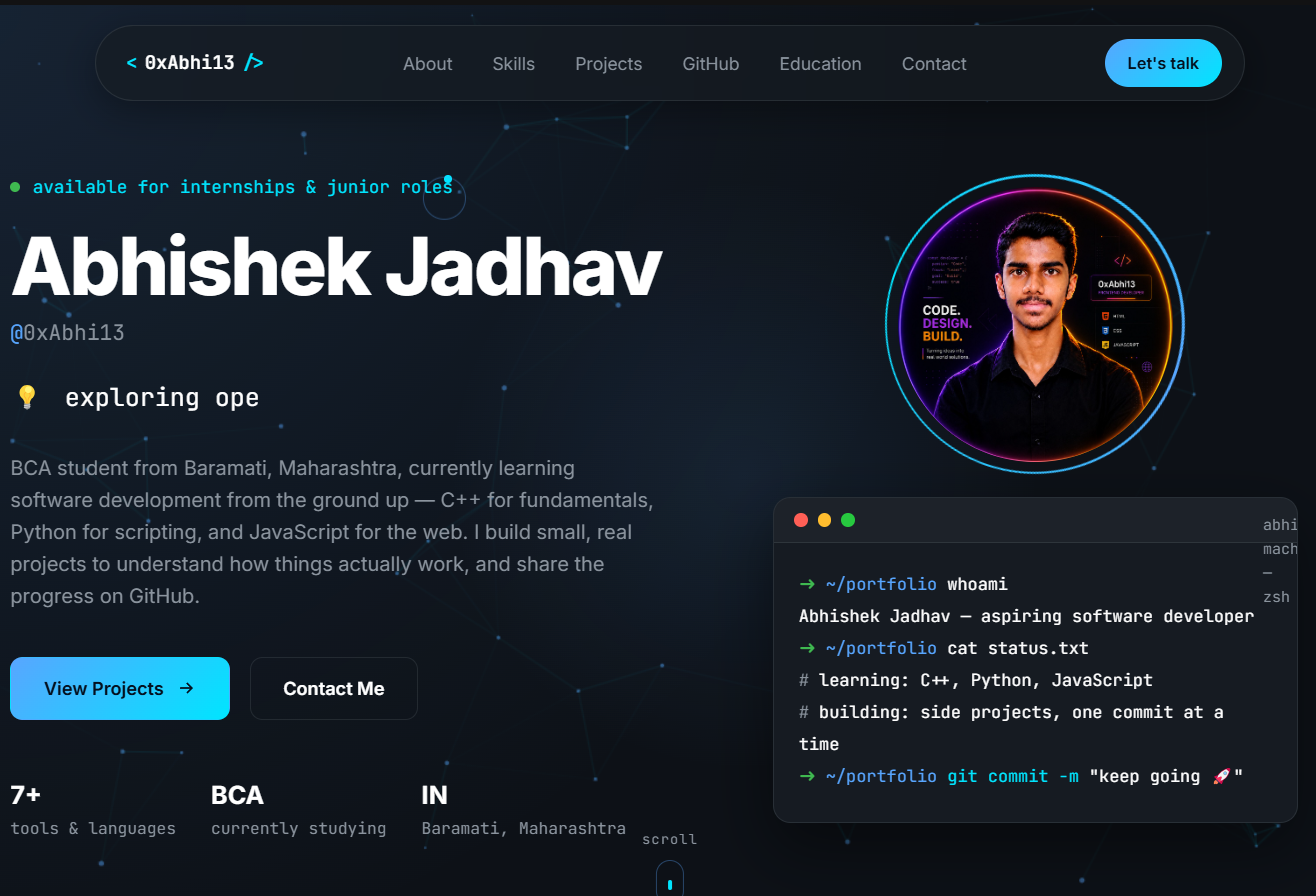
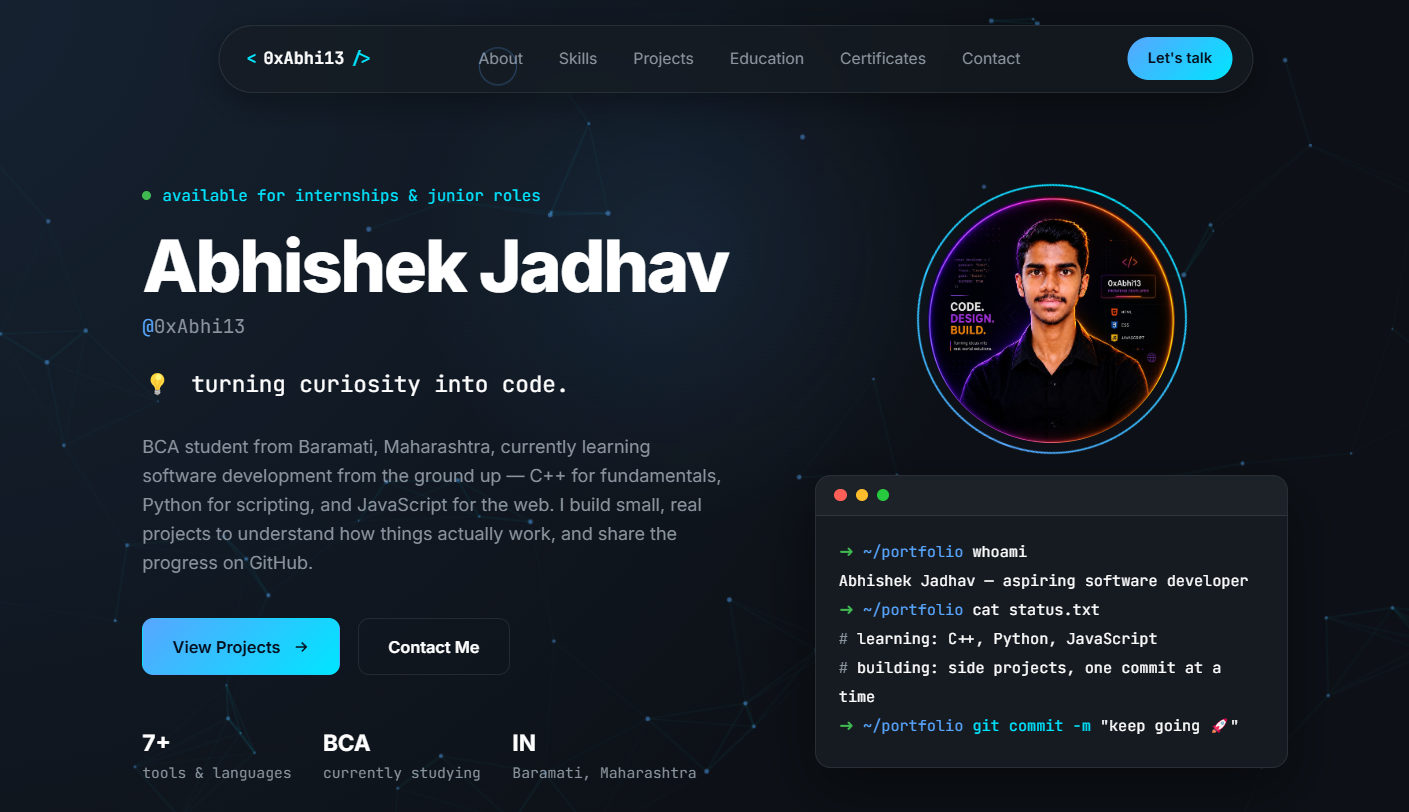
Update portfolio and featured projects

diff --git a/index.html b/index.html
@@ -339,8 +339,88 @@
 
           
 
+          <!-- Project 2 -->
+          <article class="project-card" data-reveal="scale" style="--delay:60ms">
+            <div class="project-media">
+              <img src="assets/projects/0xemotion.png" alt="0xEmotion homepage showing AI-powered emotion recognition landing page" loading="lazy" width="600" height="340" />
+            </div>
+            <div class="project-body">
+              <h3>0xEmotion</h3>
+              <p>AI-powered facial expression recognition web app that runs entirely offline — Flask + OpenCV detect faces from a webcam or upload and classify the visible expression, with a transparent fallback mode when no trained model is present.</p>
+              <div class="project-tech">
+                <span>Python</span><span>Flask</span><span>OpenCV</span><span>NumPy</span>
+              </div>
+              <div class="project-links">
+                <a class="btn btn-outline btn-sm" href="https://github.com/0xAbhi13/0xEmotion" target="_blank" rel="noopener noreferrer">
+                  <svg viewBox="0 0 24 24" fill="currentColor"><path d="M12 2a10 10 0 00-3.16 19.5c.5.1.68-.22.68-.48v-1.7c-2.78.6-3.37-1.34-3.37-1.34-.46-1.15-1.11-1.46-1.11-1.46-.9-.62.07-.6.07-.6 1 .07 1.53 1.03 1.53 1.03.9 1.52 2.34 1.08 2.91.83.09-.65.35-1.08.63-1.33-2.22-.25-4.56-1.11-4.56-4.94 0-1.09.39-1.98 1.03-2.68-.1-.25-.45-1.27.1-2.64 0 0 .84-.27 2.75 1.02a9.6 9.6 0 015 0c1.9-1.3 2.74-1.02 2.74-1.02.56 1.37.2 2.39.1 2.64.64.7 1.03 1.59 1.03 2.68 0 3.84-2.35 4.68-4.58 4.93.36.31.68.92.68 1.85v2.74c0 .27.18.58.69.48A10 10 0 0012 2z"/></svg>
+                  GitHub
+                </a>
+              </div>
+            </div>
+          </article>
+
+          <!-- Project 3 -->
+          <article class="project-card" data-reveal="scale" style="--delay:120ms">
+            <div class="project-media">
+              <img src="assets/projects/0xmagicsearch.png" alt="0xMagicSearch scanner interface with camera view and result panel" loading="lazy" width="600" height="340" />
+            </div>
+            <div class="project-body">
+              <h3>0xMagicSearch</h3>
+              <p>Local AI object detection web app that turns your webcam into a scanner — a lightweight YOLOv4-tiny model run through OpenCV identifies objects in real time and enriches each result with a local knowledge base, no cloud API involved.</p>
+              <div class="project-tech">
+                <span>Python</span><span>Flask</span><span>OpenCV</span><span>YOLOv4-tiny</span>
+              </div>
+              <div class="project-links">
+                <a class="btn btn-outline btn-sm" href="https://github.com/0xAbhi13/0xMagicSearch" target="_blank" rel="noopener noreferrer">
+                  <svg viewBox="0 0 24 24" fill="currentColor"><path d="M12 2a10 10 0 00-3.16 19.5c.5.1.68-.22.68-.48v-1.7c-2.78.6-3.37-1.34-3.37-1.34-.46-1.15-1.11-1.46-1.11-1.46-.9-.62.07-.6.07-.6 1 .07 1.53 1.03 1.53 1.03.9 1.52 2.34 1.08 2.91.83.09-.65.35-1.08.63-1.33-2.22-.25-4.56-1.11-4.56-4.94 0-1.09.39-1.98 1.03-2.68-.1-.25-.45-1.27.1-2.64 0 0 .84-.27 2.75 1.02a9.6 9.6 0 015 0c1.9-1.3 2.74-1.02 2.74-1.02.56 1.37.2 2.39.1 2.64.64.7 1.03 1.59 1.03 2.68 0 3.84-2.35 4.68-4.58 4.93.36.31.68.92.68 1.85v2.74c0 .27.18.58.69.48A10 10 0 0012 2z"/></svg>
+                  GitHub
+                </a>
+              </div>
+            </div>
+          </article>
+
+          <!-- Project 4 -->
+          <article class="project-card" data-reveal="scale" style="--delay:180ms">
+            <div class="project-media">
+              <img src="assets/projects/0xaircanvas.png" alt="0xAirCanvas drawing interface with a cat drawn on the canvas and brush controls" loading="lazy" width="600" height="340" />
+            </div>
+            <div class="project-body">
+              <h3>0xAirCanvas</h3>
+              <p>Draw in thin air — OpenCV and MediaPipe track your hand through the webcam, turning your fingertip into a smooth digital pen with gesture-based controls for drawing, erasing, and clearing the canvas, no stylus or touchscreen needed.</p>
+              <div class="project-tech">
+                <span>Python</span><span>Flask</span><span>OpenCV</span><span>MediaPipe</span>
+              </div>
+              <div class="project-links">
+                <a class="btn btn-outline btn-sm" href="https://github.com/0xAbhi13/0xAirCanvas" target="_blank" rel="noopener noreferrer">
+                  <svg viewBox="0 0 24 24" fill="currentColor"><path d="M12 2a10 10 0 00-3.16 19.5c.5.1.68-.22.68-.48v-1.7c-2.78.6-3.37-1.34-3.37-1.34-.46-1.15-1.11-1.46-1.11-1.46-.9-.62.07-.6.07-.6 1 .07 1.53 1.03 1.53 1.03.9 1.52 2.34 1.08 2.91.83.09-.65.35-1.08.63-1.33-2.22-.25-4.56-1.11-4.56-4.94 0-1.09.39-1.98 1.03-2.68-.1-.25-.45-1.27.1-2.64 0 0 .84-.27 2.75 1.02a9.6 9.6 0 015 0c1.9-1.3 2.74-1.02 2.74-1.02.56 1.37.2 2.39.1 2.64.64.7 1.03 1.59 1.03 2.68 0 3.84-2.35 4.68-4.58 4.93.36.31.68.92.68 1.85v2.74c0 .27.18.58.69.48A10 10 0 0012 2z"/></svg>
+                  GitHub
+                </a>
+              </div>
+            </div>
+          </article>
+
+          <!-- Project 5 -->
+          <article class="project-card" data-reveal="scale" style="--delay:240ms">
+            <div class="project-media">
+              <img src="assets/projects/0xvoicevision.png" alt="0xVoiceVision voice search interface with tap-and-speak microphone button" loading="lazy" width="600" height="340" />
+            </div>
+            <div class="project-body">
+              <h3>0xVoiceVision</h3>
+              <p>Voice-controlled visual search — speak a word or phrase and the Web Speech API transcribes it, Flask cleans up the query, and a matching image is pulled from the free Openverse API and revealed with an animated transition, no API key required.</p>
+              <div class="project-tech">
+                <span>Python</span><span>Flask</span><span>Web Speech API</span><span>Openverse API</span>
+              </div>
+              <div class="project-links">
+                <a class="btn btn-outline btn-sm" href="https://github.com/0xAbhi13/0xVoiceVision" target="_blank" rel="noopener noreferrer">
+                  <svg viewBox="0 0 24 24" fill="currentColor"><path d="M12 2a10 10 0 00-3.16 19.5c.5.1.68-.22.68-.48v-1.7c-2.78.6-3.37-1.34-3.37-1.34-.46-1.15-1.11-1.46-1.11-1.46-.9-.62.07-.6.07-.6 1 .07 1.53 1.03 1.53 1.03.9 1.52 2.34 1.08 2.91.83.09-.65.35-1.08.63-1.33-2.22-.25-4.56-1.11-4.56-4.94 0-1.09.39-1.98 1.03-2.68-.1-.25-.45-1.27.1-2.64 0 0 .84-.27 2.75 1.02a9.6 9.6 0 015 0c1.9-1.3 2.74-1.02 2.74-1.02.56 1.37.2 2.39.1 2.64.64.7 1.03 1.59 1.03 2.68 0 3.84-2.35 4.68-4.58 4.93.36.31.68.92.68 1.85v2.74c0 .27.18.58.69.48A10 10 0 0012 2z"/></svg>
+                  GitHub
+                </a>
+              </div>
+            </div>
+          </article>
+
           <!-- Placeholder for a future project -->
-          <article class="project-card is-placeholder" data-reveal="scale" style="--delay:240ms">
+          <article class="project-card is-placeholder" data-reveal="scale" style="--delay:300ms">
             <div class="project-media">
               <span style="font-family:var(--font-mono); color:var(--text-secondary); font-size:14px;">+ next project</span>
             </div>
